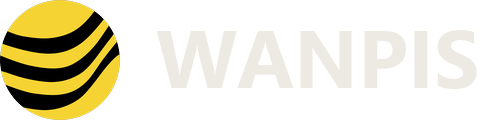
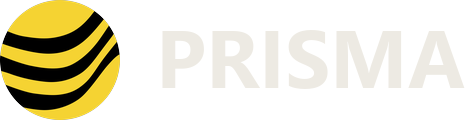
Rename app to PRISMA - Production & Reliability Information System for Mining Analytics

diff --git a/eq_dashboard/core/dataprod.py b/eq_dashboard/core/dataprod.py
@@ -22,7 +22,7 @@ from core.validate import DATASET, HOUR_SLOTS, META_SHEET, SHEETS, TEMPLATE_VERS
 
 NAME_RE = re.compile(r"data[_ -]?prod[_ -]?(\d{4})[-_]?(\d{2})", re.I)
 MAX_ROWS = 100_000          # validation / formatting range per sheet
-HEAD_FILL = PatternFill("solid", fgColor="F2C230")  # WANPIS hi-vis yellow
+HEAD_FILL = PatternFill("solid", fgColor="F2C230")  # PRISMA hi-vis yellow
 HEAD_FONT = Font(bold=True, color="141517")
 TITLE_FONT = Font(bold=True, size=13)
 FORMATS = {"date": "yyyy-mm-dd", "time": "hh:mm", "datetime": "yyyy-mm-dd hh:mm", "number": "#,##0.00",
@@ -67,7 +67,7 @@ def _sheet(wb: Workbook, sh: Sheet, rows: list[list] | None = None, lists: dict[
         cell.fill, cell.font = HEAD_FILL, HEAD_FONT
         cell.alignment = Alignment(horizontal="center", vertical="center", wrap_text=True)
         note = c.desc + (f"\nExample: {c.example}" if c.example is not None else "")
-        cell.comment = Comment(note, "WANPIS", width=260, height=90)
+        cell.comment = Comment(note, "PRISMA", width=260, height=90)
         letter = get_column_letter(j)
         width = 6 if c.name in HOUR_SLOTS else max(11, min(34, len(c.name) + 4))
         if c.kind in ("datetime",):
@@ -151,7 +151,7 @@ def _readme(wb: Workbook, title: str, lines: list[str]) -> None:
 def _meta(wb: Workbook, kind: str, extra: dict[str, str]) -> None:
     ws = wb.create_sheet(META_SHEET)
     rows = {"dataset": DATASET, "template_version": str(TEMPLATE_VERSION), "kind": kind,
-            "generated_at": now_wib().strftime("%Y-%m-%d %H:%M WIB"), "app": "WANPIS", **extra}
+            "generated_at": now_wib().strftime("%Y-%m-%d %H:%M WIB"), "app": "PRISMA", **extra}
     for k, v in rows.items():
         ws.append([k, v])
     ws.sheet_state = "hidden"
@@ -178,7 +178,7 @@ RULES = [
     "Extra columns are allowed and ignored. Empty rows are skipped.",
     "Dates must be real Excel dates, times real Excel times (hover a header to see its description and an example).",
     "Save as .xlsx or .xlsb and name it Data_Prod_YYYY-MM.xlsx, for example Data_Prod_2026-09.xlsx.",
-    "Upload it in WANPIS → Data → Data_Prod → Import. Structure and data quality are checked before anything is saved.",
+    "Upload it in PRISMA → Data → Data_Prod → Import. Structure and data quality are checked before anything is saved.",
 ]
 
 
@@ -186,8 +186,8 @@ RULES = [
 def build_template(sites: list[str], units: pd.DataFrame | None = None) -> bytes:
     """Blank Data_Prod workbook. `units` (unit_id, type, description, model, manufacturer, site) pre-fills Populasi."""
     wb = Workbook()
-    _readme(wb, "WANPIS · Data_Prod template", [
-        "Wahana Production Analysis Information System — monthly production data workbook.", "", *RULES])
+    _readme(wb, "PRISMA · Data_Prod template", [
+        "Production & Reliability Information System for Mining Analytics — monthly production data workbook.", "", *RULES])
     lists = _lists(wb, sites)
     for sh in SHEETS:
         rows = _unit_rows(units) if sh.name == "Populasi Unit" and units is not None and len(units) else None
@@ -230,8 +230,8 @@ def export_workbook(t: dict[str, pd.DataFrame], month: dt.date, sites: list[str]
     """`t` holds stored tables keyed like repo.EXPLORER_TABLES short names: units, events, ritase, coal, fuel,
     receipt. The result re-imports to the same numbers (round trip)."""
     wb = Workbook()
-    _readme(wb, f"WANPIS · Data_Prod export · {month:%B %Y} · {', '.join(sites)}", [
-        "Exported from WANPIS (PUBLISHED data). Edit in Excel and upload again to create a new version.",
+    _readme(wb, f"PRISMA · Data_Prod export · {month:%B %Y} · {', '.join(sites)}", [
+        "Exported from PRISMA (PUBLISHED data). Edit in Excel and upload again to create a new version.",
         "Stoppages, weeks and data quality are recalculated on upload, so they are not part of this file.", "",
         *RULES])
     lists = _lists(wb, sites)

diff --git a/eq_dashboard/core/brand.py b/eq_dashboard/core/brand.py
@@ -1,7 +1,8 @@
-"""WANPIS branding: name, logo assets and the sign-in screen layout."""
+"""PRISMA branding: name, logo assets and the sign-in screen layout."""
 from __future__ import annotations
 
 import base64
+import html
 from functools import lru_cache
 from pathlib import Path
 
@@ -9,8 +10,8 @@ import streamlit as st
 
 from core import theme as T
 
-NAME = "WANPIS"
-FULL_NAME = "Wahana Production Analysis Information System"
+NAME = "PRISMA"
+FULL_NAME = "Production & Reliability Information System for Mining Analytics"
 COMPANY = "PT WBK"
 BRAND_DIR = Path(__file__).resolve().parent.parent / "static" / "brand"
 ICON = str(BRAND_DIR / "logo-128.png")
@@ -66,7 +67,7 @@ def brand_panel() -> None:
     st.html(f"""<div class="wp-brand"><div>
 <img src="{data_uri('logo-128.png')}" alt="WBK logo">
 <div class="wp-name">{NAME}</div>
-<div class="wp-full">{FULL_NAME}</div>
+<div class="wp-full">{html.escape(FULL_NAME)}</div>
 <div class="wp-what">Equipment availability, reliability, production and fuel for every site,
 from the monthly Data_Prod workbook to the control-room TV.</div>
 </div><div class="wp-co">{COMPANY}</div></div>""")

diff --git a/eq_dashboard/core/validate.py b/eq_dashboard/core/validate.py
@@ -120,7 +120,7 @@ class StructureError(ValueError):
 
 
 def template_meta(raw: dict[str, pd.DataFrame]) -> dict[str, str]:
-    """Key/value pairs from the hidden _meta sheet of a WANPIS template or export ({} for other workbooks)."""
+    """Key/value pairs from the hidden _meta sheet of a PRISMA template or export ({} for other workbooks)."""
     m = raw.get(META_SHEET)
     if m is None or m.shape[1] < 2:
         return {}

diff --git a/eq_dashboard/auth/authenticator.py b/eq_dashboard/auth/authenticator.py
@@ -17,7 +17,7 @@ from db import models as m
 from db.engine import session_scope
 
 COOKIE_NAME = "eqdash_auth"
-LOGIN_FIELDS = {"Form name": "Sign in to WANPIS", "Username": "Username", "Password": "Password", "Login": "Sign in"}
+LOGIN_FIELDS = {"Form name": "Sign in to PRISMA", "Username": "Username", "Password": "Password", "Login": "Sign in"}
 
 
 def _cookie_key() -> str:

diff --git a/eq_dashboard/cli.py b/eq_dashboard/cli.py
@@ -116,7 +116,7 @@ def cmd_reset_password(a):
 
 
 def main():
-    p = argparse.ArgumentParser(description="WANPIS CLI")
+    p = argparse.ArgumentParser(description="PRISMA CLI")
     sub = p.add_subparsers(required=True)
     sub.add_parser("migrate").set_defaults(fn=cmd_migrate)
     x = sub.add_parser("ingest")

diff --git a/plan.md b/plan.md
@@ -311,3 +311,6 @@ Hasil design critique: tampilan lama generik (8 kartu setara, merah di mana-mana
 - **Nomor baris Excel** (`row_ref`) disimpan di event, ritase, coal, fuel, receipt; tampil sebagai kolom "Excel row" di Data explorer. Perbaikan: nomor baris sebelumnya bergeser setelah baris kosong di tengah sheet (juga di DQ findings). Bulan lama perlu diimport ulang untuk mengisi kolom ini.
 - **Monitoring**: backup.sh mencatat backup_ok/backup_failed ke audit log; panel **System health** (Admin, halaman Data status): backup terakhir (oranye bila gagal/> 36 jam), TV offline > 15 menit, akun terkunci, login gagal 24 jam. Rotasi log Docker (5 × 10 MB per container), log Streamlit bertimestamp, error import dicatat ke log.
 - Migrasi `c8d2e3f4a5b6`.
+
+## Revisi 13 — nama aplikasi PRISMA (2026-09-28)
+- Nama baru: **PRISMA — Production & Reliability Information System for Mining Analytics** (menggantikan WANPIS). Diterapkan di judul tab, wordmark sidebar, halaman login, header TV, template & export Data_Prod, CLI, README. Nama terpusat di `core/brand.py`.

diff --git a/eq_dashboard/README.md b/eq_dashboard/README.md
@@ -1,4 +1,4 @@
-# WANPIS — Wahana Production Analysis Information System
+# PRISMA — Production & Reliability Information System for Mining Analytics
 
 Aplikasi web untuk kinerja alat dan produksi tambang per site. Sumber datanya workbook bulanan **Data_Prod** (.xlsb/.xlsx) ditambah target bulanan per site.
 
